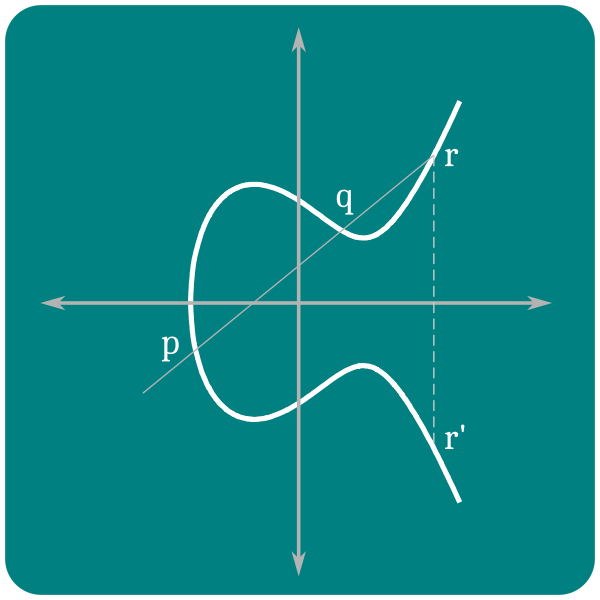
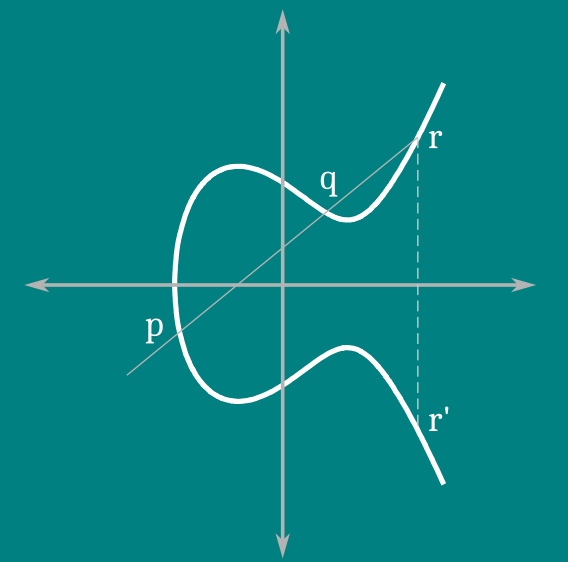
fixed headings

Changed region(s): [[0.0, 0.0, 1.0, 1.0], [0.4789, 0.4235, 0.5088, 0.4537]]

diff --git a/index.html b/index.html
@@ -46,7 +46,7 @@
         <div class="jeffFeaturedSection">
             <div class="jeffHorizontalContainer">
                 <div class="jeffSectionTitleContainer">
-                    <h3>Featured Article</h3>
+                    <h2 class="jeffSectionHeading">Featured Article</h2>
                 </div>
                 <div class="jeffFeaturedArticle">
     <a href="articles/cryptography/" class="jeffFeaturedArticleLink">
@@ -66,7 +66,7 @@
         <div class="jeffFeaturedSection">
             <div class="jeffHorizontalContainer">
                 <div class="jeffSectionTitleContainer">
-                    <h3>Latest Announcement</h3>
+                    <h2 class="jeffSectionHeading">Latest Announcement</h2>
                 </div>
                 <div class="jeffArticleListItem">
     <a href="announcements/launch/" class="jeffAnnouncementLink">

diff --git a/jeffHome.html b/jeffHome.html
@@ -29,7 +29,7 @@
         <div class="jeffFeaturedSection">
             <div class="jeffHorizontalContainer">
                 <div class="jeffSectionTitleContainer">
-                    <h3>Featured Article</h3>
+                    <h2 class="jeffSectionHeading">Featured Article</h2>
                 </div>
                 {jeffFeaturedArticle}
             </div>
@@ -37,7 +37,7 @@
         <div class="jeffFeaturedSection">
             <div class="jeffHorizontalContainer">
                 <div class="jeffSectionTitleContainer">
-                    <h3>Latest Announcement</h3>
+                    <h2 class="jeffSectionHeading">Latest Announcement</h2>
                 </div>
                 {jeffFeaturedAnnouncement}
             </div>

diff --git a/styles.css b/styles.css
@@ -58,6 +58,10 @@ h3 {
     font-weight: 500;
     line-height: 30px;
     justify-self: left;
+} 
+
+.jeffSectionHeading {
+    color: #ffffff;
 }
 
 button {
